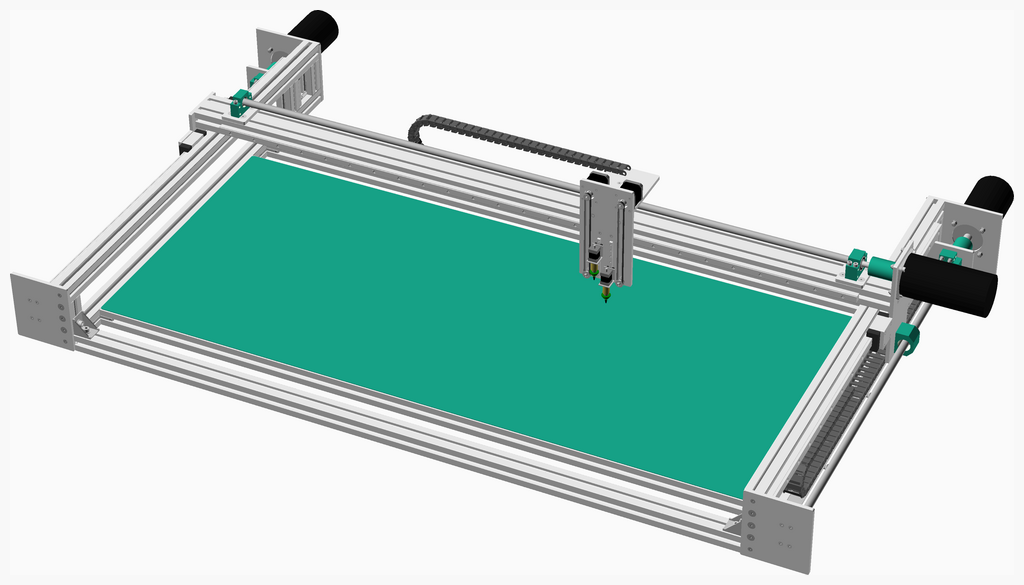
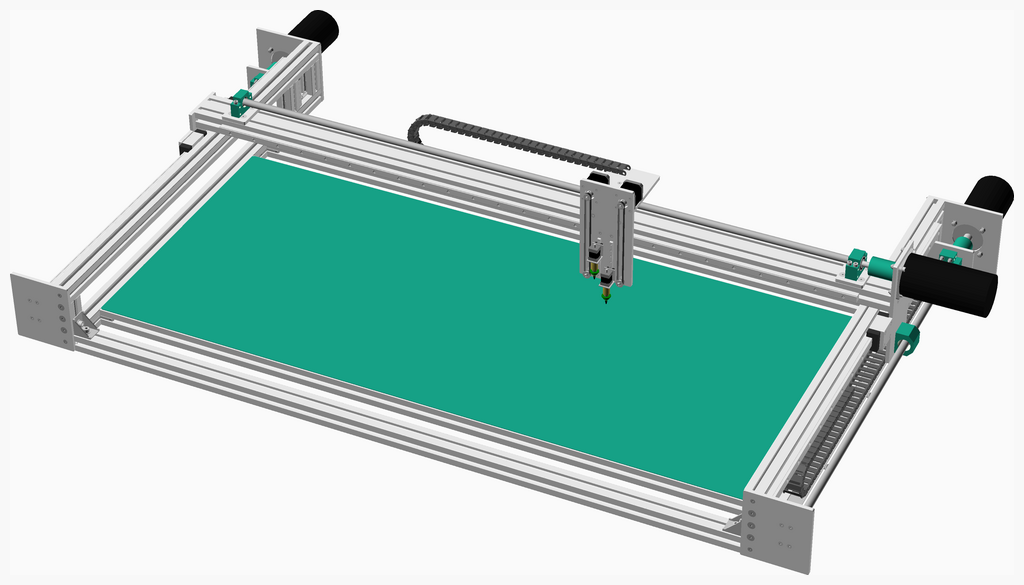
adjusting length to actual cut profiles. removed 'sheet' from L_shape to improve BOM

Changed region(s): [[0.5625, 0.4308, 0.5938, 0.4923], [0.8438, 0.6154, 0.875, 0.6462], [0.8125, 0.7077, 0.8438, 0.7385]]

diff --git a/readme.md b/readme.md
@@ -22,35 +22,32 @@
 | <span style="writing-mode: vertical-rl; text-orientation: mixed;">Left&nbsp;Side&nbsp;Frame</span> | <span style="writing-mode: vertical-rl; text-orientation: mixed;">Right&nbsp;Side&nbsp;Frame</span> | <span style="writing-mode: vertical-rl; text-orientation: mixed;">Picker</span> | <span style="writing-mode: vertical-rl; text-orientation: mixed;">Head</span> | <span style="writing-mode: vertical-rl; text-orientation: mixed;">Xaxis</span> | <span style="writing-mode: vertical-rl; text-orientation: mixed;">Frame</span> | <span style="writing-mode: vertical-rl; text-orientation: mixed;">Main</span> | <span style="writing-mode: vertical-rl; text-orientation: mixed;">TOTALS</span> |  |
 |---:|---:|---:|---:|---:|---:|---:|---:|:---|
 |  |  |  |  |  |  |  | | **Vitamins** |
-| &nbsp;&nbsp;.&nbsp; | &nbsp;&nbsp;.&nbsp; | &nbsp;&nbsp;.&nbsp; | &nbsp;&nbsp;.&nbsp; | &nbsp;&nbsp;.&nbsp; | &nbsp;&nbsp;.&nbsp; | &nbsp;&nbsp;2&nbsp; |  &nbsp;&nbsp;2&nbsp; | &nbsp;&nbsp; Aluminium tooling plate 1066mm x 30mm x 2mm |
 | &nbsp;&nbsp;.&nbsp; | &nbsp;&nbsp;.&nbsp; | &nbsp;&nbsp;.&nbsp; | &nbsp;&nbsp;1&nbsp; | &nbsp;&nbsp;.&nbsp; | &nbsp;&nbsp;.&nbsp; | &nbsp;&nbsp;.&nbsp; |  &nbsp;&nbsp;1&nbsp; | &nbsp;&nbsp; Aluminium tooling plate 110mm x 150mm x 8mm |
 | &nbsp;&nbsp;.&nbsp; | &nbsp;&nbsp;.&nbsp; | &nbsp;&nbsp;.&nbsp; | &nbsp;&nbsp;1&nbsp; | &nbsp;&nbsp;.&nbsp; | &nbsp;&nbsp;.&nbsp; | &nbsp;&nbsp;.&nbsp; |  &nbsp;&nbsp;1&nbsp; | &nbsp;&nbsp; Aluminium tooling plate 120mm x 240mm x 8mm |
 | &nbsp;&nbsp;1&nbsp; | &nbsp;&nbsp;1&nbsp; | &nbsp;&nbsp;.&nbsp; | &nbsp;&nbsp;.&nbsp; | &nbsp;&nbsp;.&nbsp; | &nbsp;&nbsp;.&nbsp; | &nbsp;&nbsp;.&nbsp; |  &nbsp;&nbsp;2&nbsp; | &nbsp;&nbsp; Aluminium tooling plate 140mm x 160mm x 8mm |
 | &nbsp;&nbsp;1&nbsp; | &nbsp;&nbsp;1&nbsp; | &nbsp;&nbsp;.&nbsp; | &nbsp;&nbsp;.&nbsp; | &nbsp;&nbsp;.&nbsp; | &nbsp;&nbsp;.&nbsp; | &nbsp;&nbsp;.&nbsp; |  &nbsp;&nbsp;2&nbsp; | &nbsp;&nbsp; Aluminium tooling plate 140mm x 78mm x 8mm |
-| &nbsp;&nbsp;.&nbsp; | &nbsp;&nbsp;.&nbsp; | &nbsp;&nbsp;.&nbsp; | &nbsp;&nbsp;.&nbsp; | &nbsp;&nbsp;.&nbsp; | &nbsp;&nbsp;.&nbsp; | &nbsp;&nbsp;1&nbsp; |  &nbsp;&nbsp;1&nbsp; | &nbsp;&nbsp; Aluminium tooling plate 1500mm x 645mm x 2mm |
-| &nbsp;&nbsp;.&nbsp; | &nbsp;&nbsp;.&nbsp; | &nbsp;&nbsp;.&nbsp; | &nbsp;&nbsp;.&nbsp; | &nbsp;&nbsp;2&nbsp; | &nbsp;&nbsp;.&nbsp; | &nbsp;&nbsp;.&nbsp; |  &nbsp;&nbsp;2&nbsp; | &nbsp;&nbsp; Aluminium tooling plate 1640mm x 30mm x 2mm |
+| &nbsp;&nbsp;.&nbsp; | &nbsp;&nbsp;.&nbsp; | &nbsp;&nbsp;.&nbsp; | &nbsp;&nbsp;.&nbsp; | &nbsp;&nbsp;.&nbsp; | &nbsp;&nbsp;.&nbsp; | &nbsp;&nbsp;1&nbsp; |  &nbsp;&nbsp;1&nbsp; | &nbsp;&nbsp; Aluminium tooling plate 1498mm x 645mm x 2mm |
 | &nbsp;&nbsp;1&nbsp; | &nbsp;&nbsp;1&nbsp; | &nbsp;&nbsp;.&nbsp; | &nbsp;&nbsp;.&nbsp; | &nbsp;&nbsp;.&nbsp; | &nbsp;&nbsp;.&nbsp; | &nbsp;&nbsp;.&nbsp; |  &nbsp;&nbsp;2&nbsp; | &nbsp;&nbsp; Aluminium tooling plate 200mm x 160mm x 8mm |
 | &nbsp;&nbsp;.&nbsp; | &nbsp;&nbsp;.&nbsp; | &nbsp;&nbsp;.&nbsp; | &nbsp;&nbsp;.&nbsp; | &nbsp;&nbsp;1&nbsp; | &nbsp;&nbsp;.&nbsp; | &nbsp;&nbsp;.&nbsp; |  &nbsp;&nbsp;1&nbsp; | &nbsp;&nbsp; Aluminium tooling plate 200mm x 180mm x 8mm |
 | &nbsp;&nbsp;.&nbsp; | &nbsp;&nbsp;.&nbsp; | &nbsp;&nbsp;.&nbsp; | &nbsp;&nbsp;.&nbsp; | &nbsp;&nbsp;1&nbsp; | &nbsp;&nbsp;.&nbsp; | &nbsp;&nbsp;.&nbsp; |  &nbsp;&nbsp;1&nbsp; | &nbsp;&nbsp; Aluminium tooling plate 200mm x 300mm x 8mm |
-| &nbsp;&nbsp;.&nbsp; | &nbsp;&nbsp;.&nbsp; | &nbsp;&nbsp;4&nbsp; | &nbsp;&nbsp;.&nbsp; | &nbsp;&nbsp;.&nbsp; | &nbsp;&nbsp;.&nbsp; | &nbsp;&nbsp;.&nbsp; |  &nbsp;&nbsp;4&nbsp; | &nbsp;&nbsp; Aluminium tooling plate 25mm x 30mm x 2mm |
 | &nbsp;&nbsp;.&nbsp; | &nbsp;&nbsp;.&nbsp; | &nbsp;&nbsp;.&nbsp; | &nbsp;&nbsp;.&nbsp; | &nbsp;&nbsp;2&nbsp; | &nbsp;&nbsp;.&nbsp; | &nbsp;&nbsp;.&nbsp; |  &nbsp;&nbsp;2&nbsp; | &nbsp;&nbsp; Aluminium tooling plate 60mm x 80mm x 8mm |
 | &nbsp;&nbsp;3&nbsp; | &nbsp;&nbsp;3&nbsp; | &nbsp;&nbsp;.&nbsp; | &nbsp;&nbsp;.&nbsp; | &nbsp;&nbsp;3&nbsp; | &nbsp;&nbsp;.&nbsp; | &nbsp;&nbsp;.&nbsp; |  &nbsp;&nbsp;9&nbsp; | &nbsp;&nbsp; Ball bearing 6201-2RS 12mm x 32mm x 10mm |
 | &nbsp;&nbsp;1&nbsp; | &nbsp;&nbsp;1&nbsp; | &nbsp;&nbsp;.&nbsp; | &nbsp;&nbsp;.&nbsp; | &nbsp;&nbsp;1&nbsp; | &nbsp;&nbsp;.&nbsp; | &nbsp;&nbsp;.&nbsp; |  &nbsp;&nbsp;3&nbsp; | &nbsp;&nbsp; Bearing BF12  |
 | &nbsp;&nbsp;1&nbsp; | &nbsp;&nbsp;1&nbsp; | &nbsp;&nbsp;.&nbsp; | &nbsp;&nbsp;.&nbsp; | &nbsp;&nbsp;1&nbsp; | &nbsp;&nbsp;.&nbsp; | &nbsp;&nbsp;.&nbsp; |  &nbsp;&nbsp;3&nbsp; | &nbsp;&nbsp; Bearing BK12  |
 | &nbsp;&nbsp;.&nbsp; | &nbsp;&nbsp;.&nbsp; | &nbsp;&nbsp;.&nbsp; | &nbsp;&nbsp;2&nbsp; | &nbsp;&nbsp;.&nbsp; | &nbsp;&nbsp;.&nbsp; | &nbsp;&nbsp;.&nbsp; |  &nbsp;&nbsp;2&nbsp; | &nbsp;&nbsp; Belt GT2 x 6mm x nanmm |
 | &nbsp;&nbsp;2&nbsp; | &nbsp;&nbsp;2&nbsp; | &nbsp;&nbsp;.&nbsp; | &nbsp;&nbsp;.&nbsp; | &nbsp;&nbsp;.&nbsp; | &nbsp;&nbsp;.&nbsp; | &nbsp;&nbsp;.&nbsp; |  &nbsp;&nbsp;4&nbsp; | &nbsp;&nbsp; Extrusion E4040 x 1070mm |
-| &nbsp;&nbsp;.&nbsp; | &nbsp;&nbsp;.&nbsp; | &nbsp;&nbsp;.&nbsp; | &nbsp;&nbsp;.&nbsp; | &nbsp;&nbsp;.&nbsp; | &nbsp;&nbsp;5&nbsp; | &nbsp;&nbsp;.&nbsp; |  &nbsp;&nbsp;5&nbsp; | &nbsp;&nbsp; Extrusion E4040 x 1500mm |
+| &nbsp;&nbsp;.&nbsp; | &nbsp;&nbsp;.&nbsp; | &nbsp;&nbsp;.&nbsp; | &nbsp;&nbsp;.&nbsp; | &nbsp;&nbsp;.&nbsp; | &nbsp;&nbsp;5&nbsp; | &nbsp;&nbsp;.&nbsp; |  &nbsp;&nbsp;5&nbsp; | &nbsp;&nbsp; Extrusion E4040 x 1498mm |
 | &nbsp;&nbsp;3&nbsp; | &nbsp;&nbsp;3&nbsp; | &nbsp;&nbsp;.&nbsp; | &nbsp;&nbsp;.&nbsp; | &nbsp;&nbsp;.&nbsp; | &nbsp;&nbsp;.&nbsp; | &nbsp;&nbsp;.&nbsp; |  &nbsp;&nbsp;6&nbsp; | &nbsp;&nbsp; Extrusion E4040 x 80mm |
-| &nbsp;&nbsp;.&nbsp; | &nbsp;&nbsp;.&nbsp; | &nbsp;&nbsp;.&nbsp; | &nbsp;&nbsp;.&nbsp; | &nbsp;&nbsp;1&nbsp; | &nbsp;&nbsp;.&nbsp; | &nbsp;&nbsp;.&nbsp; |  &nbsp;&nbsp;1&nbsp; | &nbsp;&nbsp; Extrusion E4080 x 1640mm |
+| &nbsp;&nbsp;.&nbsp; | &nbsp;&nbsp;.&nbsp; | &nbsp;&nbsp;.&nbsp; | &nbsp;&nbsp;.&nbsp; | &nbsp;&nbsp;1&nbsp; | &nbsp;&nbsp;.&nbsp; | &nbsp;&nbsp;.&nbsp; |  &nbsp;&nbsp;1&nbsp; | &nbsp;&nbsp; Extrusion E4080 x 1638mm |
 | &nbsp;&nbsp;1&nbsp; | &nbsp;&nbsp;1&nbsp; | &nbsp;&nbsp;.&nbsp; | &nbsp;&nbsp;2&nbsp; | &nbsp;&nbsp;.&nbsp; | &nbsp;&nbsp;.&nbsp; | &nbsp;&nbsp;.&nbsp; |  &nbsp;&nbsp;4&nbsp; | &nbsp;&nbsp; Extrusion corner bracket 35 |
 | &nbsp;&nbsp;15&nbsp; | &nbsp;&nbsp;15&nbsp; | &nbsp;&nbsp;.&nbsp; | &nbsp;&nbsp;.&nbsp; | &nbsp;&nbsp;.&nbsp; | &nbsp;&nbsp;.&nbsp; | &nbsp;&nbsp;.&nbsp; |  &nbsp;&nbsp;30&nbsp; | &nbsp;&nbsp; Extrusion inner corner bracket 8.5 |
 | &nbsp;&nbsp;.&nbsp; | &nbsp;&nbsp;.&nbsp; | &nbsp;&nbsp;.&nbsp; | &nbsp;&nbsp;.&nbsp; | &nbsp;&nbsp;.&nbsp; | &nbsp;&nbsp;.&nbsp; | &nbsp;&nbsp;1&nbsp; |  &nbsp;&nbsp;1&nbsp; | &nbsp;&nbsp; L-profile(30x30) 1066mm |
-| &nbsp;&nbsp;.&nbsp; | &nbsp;&nbsp;.&nbsp; | &nbsp;&nbsp;.&nbsp; | &nbsp;&nbsp;.&nbsp; | &nbsp;&nbsp;1&nbsp; | &nbsp;&nbsp;.&nbsp; | &nbsp;&nbsp;.&nbsp; |  &nbsp;&nbsp;1&nbsp; | &nbsp;&nbsp; L-profile(30x30) 1640mm |
+| &nbsp;&nbsp;.&nbsp; | &nbsp;&nbsp;.&nbsp; | &nbsp;&nbsp;.&nbsp; | &nbsp;&nbsp;.&nbsp; | &nbsp;&nbsp;1&nbsp; | &nbsp;&nbsp;.&nbsp; | &nbsp;&nbsp;.&nbsp; |  &nbsp;&nbsp;1&nbsp; | &nbsp;&nbsp; L-profile(30x30) 1638mm |
 | &nbsp;&nbsp;.&nbsp; | &nbsp;&nbsp;.&nbsp; | &nbsp;&nbsp;2&nbsp; | &nbsp;&nbsp;.&nbsp; | &nbsp;&nbsp;.&nbsp; | &nbsp;&nbsp;.&nbsp; | &nbsp;&nbsp;.&nbsp; |  &nbsp;&nbsp;2&nbsp; | &nbsp;&nbsp; L-profile(30x30) 25mm |
-| &nbsp;&nbsp;.&nbsp; | &nbsp;&nbsp;.&nbsp; | &nbsp;&nbsp;.&nbsp; | &nbsp;&nbsp;.&nbsp; | &nbsp;&nbsp;1&nbsp; | &nbsp;&nbsp;.&nbsp; | &nbsp;&nbsp;.&nbsp; |  &nbsp;&nbsp;1&nbsp; | &nbsp;&nbsp; Leadscrew 16 x 1435mm, 10mm lead, 1 starts |
+| &nbsp;&nbsp;.&nbsp; | &nbsp;&nbsp;.&nbsp; | &nbsp;&nbsp;.&nbsp; | &nbsp;&nbsp;.&nbsp; | &nbsp;&nbsp;1&nbsp; | &nbsp;&nbsp;.&nbsp; | &nbsp;&nbsp;.&nbsp; |  &nbsp;&nbsp;1&nbsp; | &nbsp;&nbsp; Leadscrew 16 x 1433mm, 10mm lead, 1 starts |
 | &nbsp;&nbsp;1&nbsp; | &nbsp;&nbsp;1&nbsp; | &nbsp;&nbsp;.&nbsp; | &nbsp;&nbsp;.&nbsp; | &nbsp;&nbsp;.&nbsp; | &nbsp;&nbsp;.&nbsp; | &nbsp;&nbsp;.&nbsp; |  &nbsp;&nbsp;2&nbsp; | &nbsp;&nbsp; Leadscrew 16 x 935mm, 10mm lead, 1 starts |
 | &nbsp;&nbsp;1&nbsp; | &nbsp;&nbsp;1&nbsp; | &nbsp;&nbsp;.&nbsp; | &nbsp;&nbsp;.&nbsp; | &nbsp;&nbsp;1&nbsp; | &nbsp;&nbsp;.&nbsp; | &nbsp;&nbsp;.&nbsp; |  &nbsp;&nbsp;3&nbsp; | &nbsp;&nbsp; Leadscrew nut for SFU1610 |
-| &nbsp;&nbsp;.&nbsp; | &nbsp;&nbsp;.&nbsp; | &nbsp;&nbsp;.&nbsp; | &nbsp;&nbsp;.&nbsp; | &nbsp;&nbsp;1&nbsp; | &nbsp;&nbsp;.&nbsp; | &nbsp;&nbsp;.&nbsp; |  &nbsp;&nbsp;1&nbsp; | &nbsp;&nbsp; Linear rail HGH15CA x 1500mm |
+| &nbsp;&nbsp;.&nbsp; | &nbsp;&nbsp;.&nbsp; | &nbsp;&nbsp;.&nbsp; | &nbsp;&nbsp;.&nbsp; | &nbsp;&nbsp;1&nbsp; | &nbsp;&nbsp;.&nbsp; | &nbsp;&nbsp;.&nbsp; |  &nbsp;&nbsp;1&nbsp; | &nbsp;&nbsp; Linear rail HGH15CA x 1498mm |
 | &nbsp;&nbsp;1&nbsp; | &nbsp;&nbsp;1&nbsp; | &nbsp;&nbsp;.&nbsp; | &nbsp;&nbsp;.&nbsp; | &nbsp;&nbsp;.&nbsp; | &nbsp;&nbsp;.&nbsp; | &nbsp;&nbsp;.&nbsp; |  &nbsp;&nbsp;2&nbsp; | &nbsp;&nbsp; Linear rail HGH20CA x 1000mm |
 | &nbsp;&nbsp;.&nbsp; | &nbsp;&nbsp;.&nbsp; | &nbsp;&nbsp;2&nbsp; | &nbsp;&nbsp;.&nbsp; | &nbsp;&nbsp;.&nbsp; | &nbsp;&nbsp;.&nbsp; | &nbsp;&nbsp;.&nbsp; |  &nbsp;&nbsp;2&nbsp; | &nbsp;&nbsp; Linear rail MGN7 x 100mm |
 | &nbsp;&nbsp;.&nbsp; | &nbsp;&nbsp;.&nbsp; | &nbsp;&nbsp;.&nbsp; | &nbsp;&nbsp;4&nbsp; | &nbsp;&nbsp;.&nbsp; | &nbsp;&nbsp;.&nbsp; | &nbsp;&nbsp;.&nbsp; |  &nbsp;&nbsp;4&nbsp; | &nbsp;&nbsp; Nut M4 x 3.2mm  |
@@ -59,6 +56,7 @@
 | &nbsp;&nbsp;2&nbsp; | &nbsp;&nbsp;2&nbsp; | &nbsp;&nbsp;.&nbsp; | &nbsp;&nbsp;.&nbsp; | &nbsp;&nbsp;.&nbsp; | &nbsp;&nbsp;.&nbsp; | &nbsp;&nbsp;.&nbsp; |  &nbsp;&nbsp;4&nbsp; | &nbsp;&nbsp; Nut M8 sliding T |
 | &nbsp;&nbsp;.&nbsp; | &nbsp;&nbsp;.&nbsp; | &nbsp;&nbsp;.&nbsp; | &nbsp;&nbsp;2&nbsp; | &nbsp;&nbsp;.&nbsp; | &nbsp;&nbsp;.&nbsp; | &nbsp;&nbsp;.&nbsp; |  &nbsp;&nbsp;2&nbsp; | &nbsp;&nbsp; Pulley GT2 idler smooth 12mm |
 | &nbsp;&nbsp;.&nbsp; | &nbsp;&nbsp;.&nbsp; | &nbsp;&nbsp;.&nbsp; | &nbsp;&nbsp;2&nbsp; | &nbsp;&nbsp;.&nbsp; | &nbsp;&nbsp;.&nbsp; | &nbsp;&nbsp;.&nbsp; |  &nbsp;&nbsp;2&nbsp; | &nbsp;&nbsp; Pulley GT2OB 20 teeth |
+| &nbsp;&nbsp;.&nbsp; | &nbsp;&nbsp;.&nbsp; | &nbsp;&nbsp;.&nbsp; | &nbsp;&nbsp;1&nbsp; | &nbsp;&nbsp;.&nbsp; | &nbsp;&nbsp;.&nbsp; | &nbsp;&nbsp;.&nbsp; |  &nbsp;&nbsp;1&nbsp; | &nbsp;&nbsp; Raspberry Pi camera V2 |
 | &nbsp;&nbsp;.&nbsp; | &nbsp;&nbsp;.&nbsp; | &nbsp;&nbsp;.&nbsp; | &nbsp;&nbsp;14&nbsp; | &nbsp;&nbsp;.&nbsp; | &nbsp;&nbsp;.&nbsp; | &nbsp;&nbsp;.&nbsp; |  &nbsp;&nbsp;14&nbsp; | &nbsp;&nbsp; Screw M2 cap x 10mm |
 | &nbsp;&nbsp;.&nbsp; | &nbsp;&nbsp;.&nbsp; | &nbsp;&nbsp;16&nbsp; | &nbsp;&nbsp;.&nbsp; | &nbsp;&nbsp;.&nbsp; | &nbsp;&nbsp;.&nbsp; | &nbsp;&nbsp;.&nbsp; |  &nbsp;&nbsp;16&nbsp; | &nbsp;&nbsp; Screw M2 cs cap x  6mm |
 | &nbsp;&nbsp;.&nbsp; | &nbsp;&nbsp;.&nbsp; | &nbsp;&nbsp;.&nbsp; | &nbsp;&nbsp;8&nbsp; | &nbsp;&nbsp;.&nbsp; | &nbsp;&nbsp;.&nbsp; | &nbsp;&nbsp;.&nbsp; |  &nbsp;&nbsp;8&nbsp; | &nbsp;&nbsp; Screw M3 cs cap x 12mm |
@@ -85,7 +83,7 @@
 | &nbsp;&nbsp;8&nbsp; | &nbsp;&nbsp;8&nbsp; | &nbsp;&nbsp;.&nbsp; | &nbsp;&nbsp;4&nbsp; | &nbsp;&nbsp;.&nbsp; | &nbsp;&nbsp;.&nbsp; | &nbsp;&nbsp;.&nbsp; |  &nbsp;&nbsp;20&nbsp; | &nbsp;&nbsp; Washer  M5 x 10mm x 1mm |
 | &nbsp;&nbsp;4&nbsp; | &nbsp;&nbsp;4&nbsp; | &nbsp;&nbsp;.&nbsp; | &nbsp;&nbsp;.&nbsp; | &nbsp;&nbsp;4&nbsp; | &nbsp;&nbsp;.&nbsp; | &nbsp;&nbsp;.&nbsp; |  &nbsp;&nbsp;12&nbsp; | &nbsp;&nbsp; Washer  M6 x 12.5mm x 1.5mm |
 | &nbsp;&nbsp;2&nbsp; | &nbsp;&nbsp;2&nbsp; | &nbsp;&nbsp;.&nbsp; | &nbsp;&nbsp;.&nbsp; | &nbsp;&nbsp;.&nbsp; | &nbsp;&nbsp;.&nbsp; | &nbsp;&nbsp;.&nbsp; |  &nbsp;&nbsp;4&nbsp; | &nbsp;&nbsp; Washer  M8 x 17mm x 1.6mm |
-| &nbsp;&nbsp;116&nbsp; | &nbsp;&nbsp;116&nbsp; | &nbsp;&nbsp;26&nbsp; | &nbsp;&nbsp;68&nbsp; | &nbsp;&nbsp;83&nbsp; | &nbsp;&nbsp;5&nbsp; | &nbsp;&nbsp;9&nbsp; | &nbsp;&nbsp;423&nbsp; | &nbsp;&nbsp;Total vitamins count |
+| &nbsp;&nbsp;116&nbsp; | &nbsp;&nbsp;116&nbsp; | &nbsp;&nbsp;22&nbsp; | &nbsp;&nbsp;69&nbsp; | &nbsp;&nbsp;81&nbsp; | &nbsp;&nbsp;5&nbsp; | &nbsp;&nbsp;7&nbsp; | &nbsp;&nbsp;416&nbsp; | &nbsp;&nbsp;Total vitamins count |
 |  |  |  |  |  |  |  | | **CNC routed parts** |
 | &nbsp;&nbsp;1&nbsp; | &nbsp;&nbsp;1&nbsp; | &nbsp;&nbsp;.&nbsp; | &nbsp;&nbsp;.&nbsp; | &nbsp;&nbsp;.&nbsp; | &nbsp;&nbsp;.&nbsp; | &nbsp;&nbsp;.&nbsp; |  &nbsp;&nbsp;2&nbsp; | &nbsp;&nbsp;ballscrew_mount1.dxf |
 | &nbsp;&nbsp;1&nbsp; | &nbsp;&nbsp;1&nbsp; | &nbsp;&nbsp;.&nbsp; | &nbsp;&nbsp;.&nbsp; | &nbsp;&nbsp;.&nbsp; | &nbsp;&nbsp;.&nbsp; | &nbsp;&nbsp;.&nbsp; |  &nbsp;&nbsp;2&nbsp; | &nbsp;&nbsp;ballscrew_mount2.dxf |
@@ -214,7 +212,6 @@
 ### Vitamins
 |Qty|Description|
 |---:|:----------|
-|4| Aluminium tooling plate 25mm x 30mm x 2mm|
 |2| L-profile(30x30) 25mm|
 |2| Linear rail MGN7 x 100mm|
 |16| Screw M2 cs cap x  6mm|
@@ -250,6 +247,7 @@
 |4| Nut M5 x 4mm nyloc|
 |2| Pulley GT2 idler smooth 12mm|
 |2| Pulley GT2OB 20 teeth|
+|1| Raspberry Pi camera V2|
 |14| Screw M2 cap x 10mm|
 |8| Screw M3 cs cap x 12mm|
 |2| Screw M4 cap x 30mm|
@@ -289,18 +287,17 @@
 ### Vitamins
 |Qty|Description|
 |---:|:----------|
-|2| Aluminium tooling plate 1640mm x 30mm x 2mm|
 |1| Aluminium tooling plate 200mm x 180mm x 8mm|
 |1| Aluminium tooling plate 200mm x 300mm x 8mm|
 |2| Aluminium tooling plate 60mm x 80mm x 8mm|
 |3| Ball bearing 6201-2RS 12mm x 32mm x 10mm|
 |1| Bearing BF12 |
 |1| Bearing BK12 |
-|1| Extrusion E4080 x 1640mm|
-|1| L-profile(30x30) 1640mm|
-|1| Leadscrew 16 x 1435mm, 10mm lead, 1 starts|
+|1| Extrusion E4080 x 1638mm|
+|1| L-profile(30x30) 1638mm|
+|1| Leadscrew 16 x 1433mm, 10mm lead, 1 starts|
 |1| Leadscrew nut for SFU1610|
-|1| Linear rail HGH15CA x 1500mm|
+|1| Linear rail HGH15CA x 1498mm|
 |4| Nut M6 x 5mm nyloc|
 |25| Screw M4 cap x 20mm|
 |8| Screw M5 cs cap x 16mm|
@@ -349,7 +346,7 @@
 ### Vitamins
 |Qty|Description|
 |---:|:----------|
-|5| Extrusion E4040 x 1500mm|
+|5| Extrusion E4040 x 1498mm|
 
 
 ### Assembly instructions
@@ -365,8 +362,7 @@
 ### Vitamins
 |Qty|Description|
 |---:|:----------|
-|2| Aluminium tooling plate 1066mm x 30mm x 2mm|
-|1| Aluminium tooling plate 1500mm x 645mm x 2mm|
+|1| Aluminium tooling plate 1498mm x 645mm x 2mm|
 |1| L-profile(30x30) 1066mm|
 |5| Screw M8 cs cap x 16mm|
 
